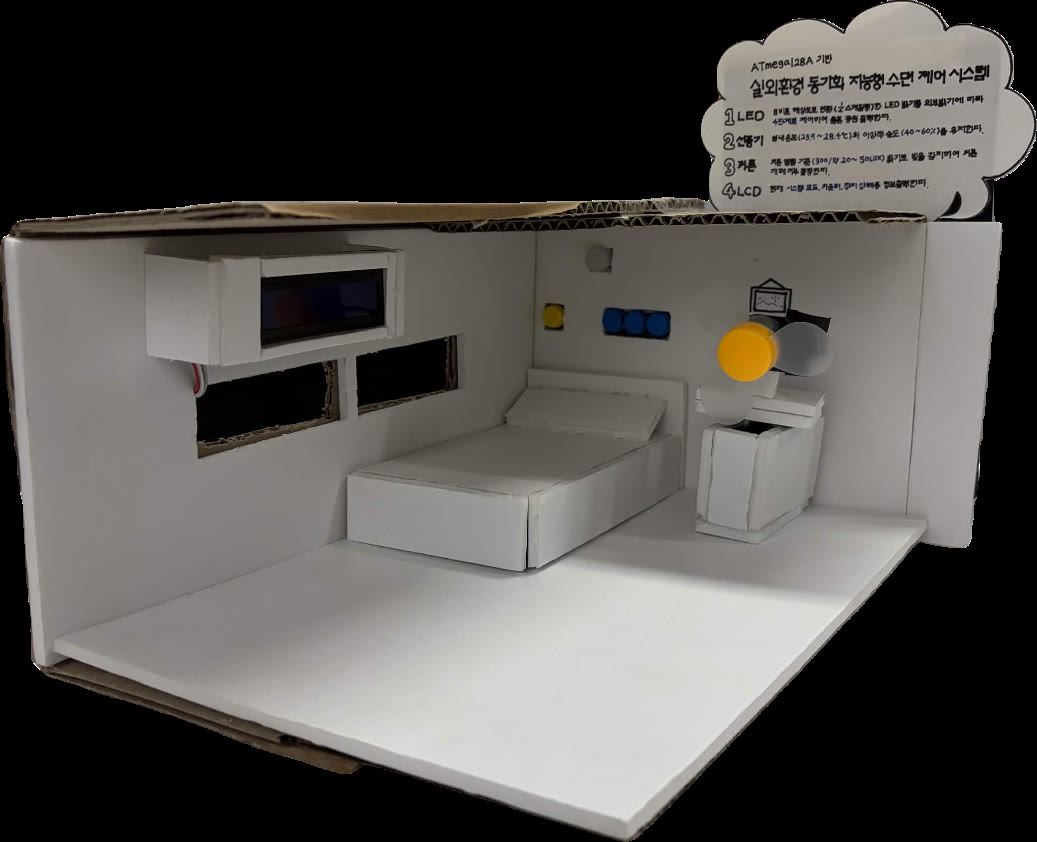
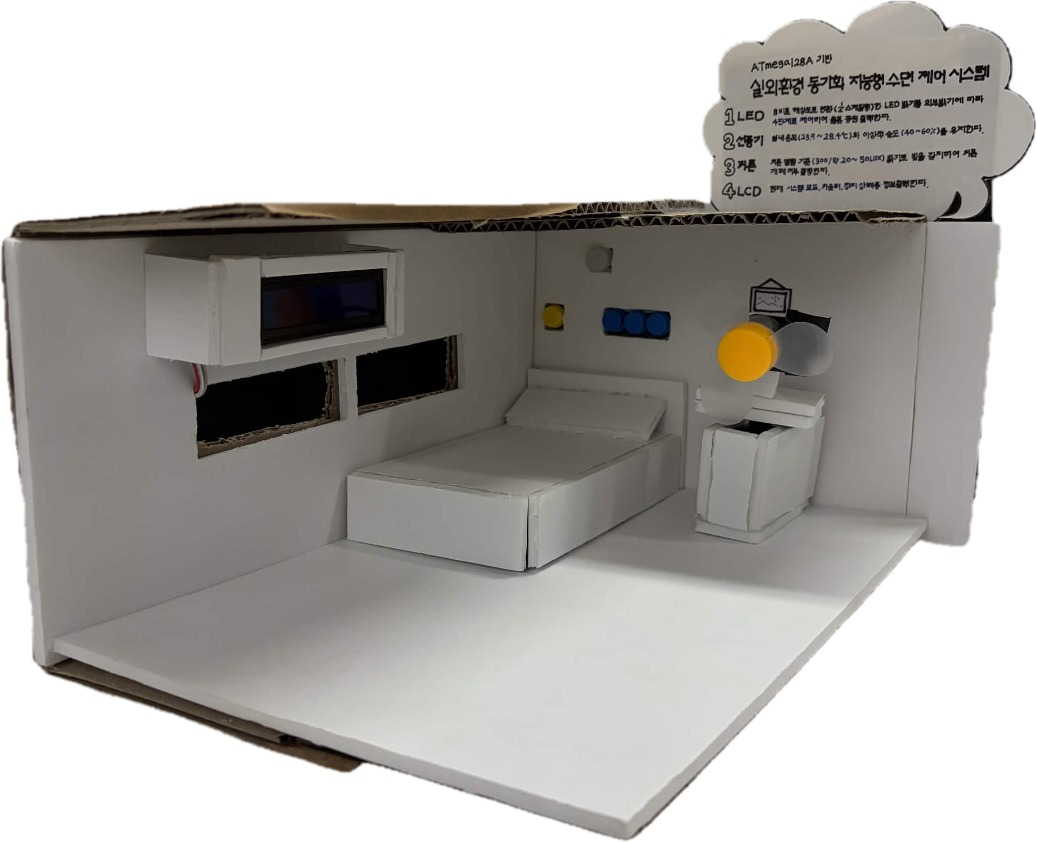
docs: section spacing, white-background photos, circuit photo

diff --git a/README.md b/README.md
@@ -4,8 +4,12 @@
 베어메탈(레지스터 직접 제어) 환경에서 논블로킹 메인 루프와 계층형 아키텍처로 구현했습니다.
 
 <p align="center">
-  <img src="docs/hardware.jpg" width="55%" alt="실물 디오라마 - 침실 축소 모형에 LED 조명, 커튼, 선풍기, LCD를 배치"/>
+  <img src="docs/hardware.jpg" width="48%" alt="실물 디오라마 - 침실 축소 모형에 LED 조명, 커튼, 선풍기, LCD를 배치"/>
+  <img src="docs/circuit.jpg" width="40%" alt="후면 회로 구성 - ATmega128A 보드, 브레드보드, 릴레이, 서보 배선"/>
 </p>
+<p align="center"><i>디오라마 전면(좌) · 후면 회로 구성(우)</i></p>
+
+<br>
 
 ## 목차
 
@@ -23,6 +27,8 @@
 12. [한계 및 차기 프로젝트 반영](#12-한계-및-차기-프로젝트-반영)
 13. [빌드](#13-빌드)
 
+<br>
+
 ## 1. 시연
 
 조도 센서를 손으로 가리면 커튼이 서보모터로 부드럽게 닫히고, LCD에 각 장치 상태가 실시간 표시됩니다.
@@ -31,7 +37,11 @@
   <img src="docs/demo_curtain.gif" width="55%" alt="커튼 자동 개폐 시연"/>
 </p>
 
+<!-- 아래 줄에 GitHub 업로드 영상 URL(user-attachments)을 단독 한 줄로 붙여넣으면 인라인 재생됩니다 -->
+
 ▶ **전체 시연 영상 (1분 42초)**: [YouTube에서 보기](https://www.youtube.com/watch?v=3G_67dsU_wg) — LED 색 모드 전환, 선풍기 자동/수동 모드, 회전 스윙, 커튼 개폐, LCD 모니터링
+
+<br>
 
 ## 2. 핵심 기술 요약
 
@@ -44,6 +54,8 @@
 | **제어 기법** | 히스테리시스(채터링 방지), 서보 선형 가감속(관성 제거), 버튼 엣지 검출 + 디바운싱 |
 | **소프트웨어 구조** | 논블로킹 슈퍼루프(협조적 스케줄링), 3계층 아키텍처(drivers/devices/app), Makefile 빌드 자동화 |
 | **디버깅 경험 (팀)** | 돌입 전류·전압 강하 원인 분석 및 통신 방식 변경, 팀원 간 교차 검증으로 하드웨어 결함 격리, 인터럽트 크리티컬 섹션(cli/sei) 적용 |
+
+<br>
 
 ## 3. 프로젝트 개요
 
@@ -71,6 +83,8 @@
 - 함수 네이밍 컨벤션 통일, 오타·데드 코드 제거, Makefile 빌드 자동화
 - Git 저장소 구성 및 머지 관리
 
+<br>
+
 ## 4. 주요 기능
 
 - **조명**: 조도 센서 값에 비례한 RGB LED 밝기 제어, 버튼으로 색 모드 전환 (흰색 / 노란색 / 꺼짐)
@@ -82,6 +96,8 @@
   t:25 h:40 l:0512      ← 온도(℃) / 습도(%) / 조도(ADC 0~1023)
   fan:o led:o ct:x      ← 선풍기 / 조명 / 커튼 (o=동작, x=정지)
   ```
+
+<br>
 
 ## 5. 시스템 구성
 
@@ -107,6 +123,8 @@ flowchart LR
     MCU --> FAN
     MCU --> LCD
 ```
+
+<br>
 
 ## 6. 아키텍처
 
@@ -145,6 +163,8 @@ Project01_SmartHome/
     └── lcd_hw_test.c   # LCD 단독 하드웨어 점검용 (빌드 대상 아님)
 ```
 
+<br>
+
 ## 7. 핀맵
 
 | 기능 | 핀 | 비고 |
@@ -158,6 +178,8 @@ Project01_SmartHome/
 | 조명 모드 버튼 | PG2 | 내부 풀업 |
 | 팬 자동/수동 · ON/OFF · 회전 버튼 | PA3 / PA4 / PA5 | 내부 풀업 |
 | I2C LCD | TWI (0x27) | PCF8574 백팩 |
+
+<br>
 
 ## 8. 상태 전이
 
@@ -211,6 +233,8 @@ stateDiagram-v2
 
 색 모드와 무관하게 밝기는 조도 센서 값에 비례합니다 (최소 밝기 하한 적용).
 
+<br>
+
 ## 9. 실행 구조
 
 RTOS 없이 슈퍼루프 기반 협조적 스케줄링(cooperative scheduling)으로 동작합니다.
@@ -226,6 +250,8 @@ loop (≈1ms)
  └─ 1000틱마다 → LCD 갱신
 ```
 
+<br>
+
 ## 10. 설계 포인트
 
 - **논블로킹 메인 루프**: 서보 스윙·커튼 이동·주기 작업을 딜레이 없이 틱 카운터로 처리하여, 버튼 응답성과 다중 장치 동시 제어를 확보
@@ -233,6 +259,8 @@ loop (≈1ms)
 - **DHT11 통신 안정화**: 비트 단위 타임아웃 안전장치와 통신 구간 인터럽트 차단(`cli`/`sei`)으로 마이크로초 타이밍 보장, 체크섬 검증
 - **히스테리시스**: 커튼(조도)과 팬(온습도) 모두 ON/OFF 임계값을 분리하여 경계값 부근에서의 반복 동작 방지
 - **정책/장치 분리**: DHT11 모듈은 측정만 담당하고, "몇 도에 팬을 켤 것인가"는 app 계층이 결정 — 임계값 변경 시 센서 코드를 건드릴 필요 없음
+
+<br>
 
 ## 11. Troubleshooting
 
@@ -258,6 +286,8 @@ loop (≈1ms)
 - **문제**: 무드등(RGB LED)과 커튼 서보 제어에 타이머 PWM 기능을 우선 할당하여 가용 PWM 핀이 부족
 - **해결**: 릴레이 사용 시 일반 출력으로 충분하다고 판단, MCU의 전류 문제(40mA 출력 제한)와 모터의 전압 문제를 일반 GPIO + 릴레이 조합으로 해결
 
+<br>
+
 ## 12. 한계 및 차기 프로젝트 반영
 
 이 프로젝트에서 확인한 한계를 다음 프로젝트(ARM 기반)에서 개선 로직으로 반영했습니다.
@@ -266,6 +296,8 @@ loop (≈1ms)
 |---|---|
 | 폴링 기반 즉시 반응으로 인한 버튼 오작동 여지 | 명시적 FSM 도입으로 상태 기반 입력 처리 |
 | I2C 통신으로 인한 느린 모니터링 속도 | 전원 설계를 보강한 보드에서 UART 통신으로 전환 |
+
+<br>
 
 ## 13. 빌드
 
